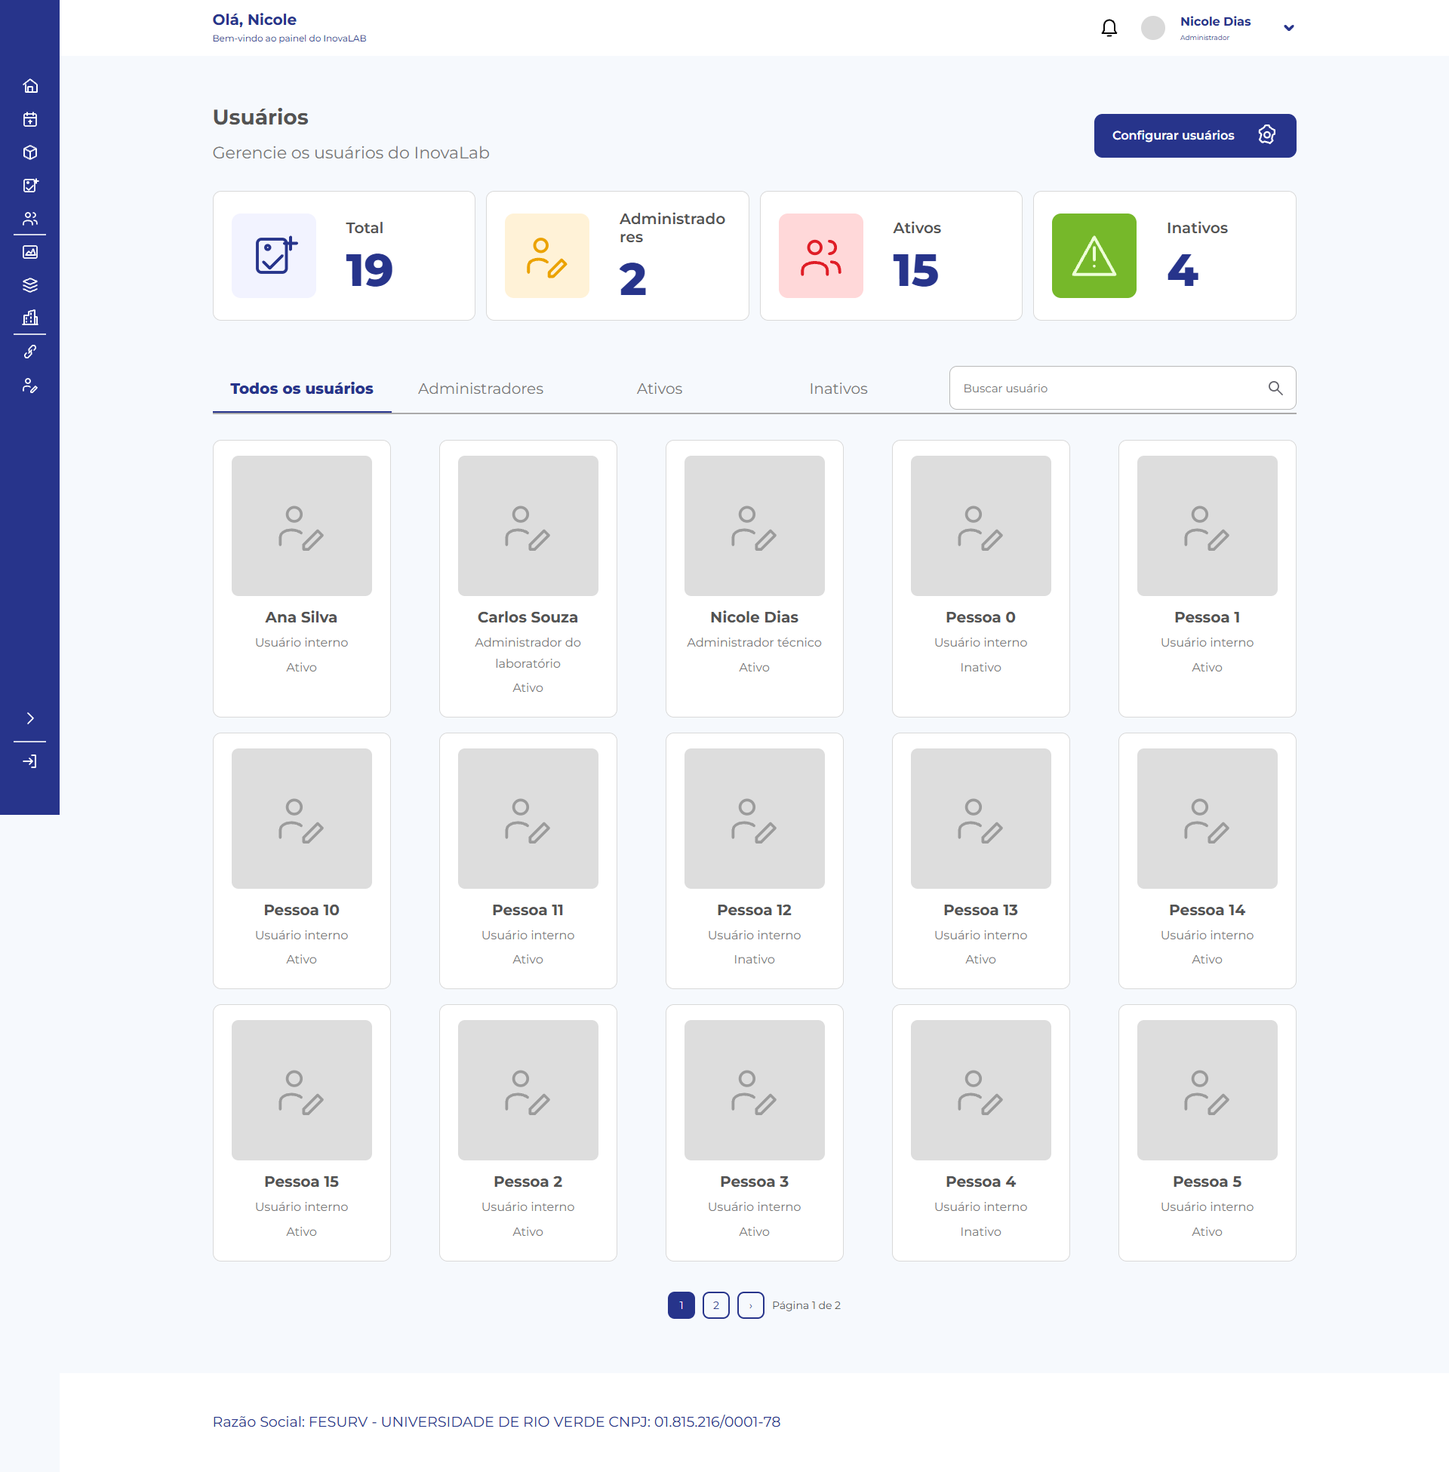
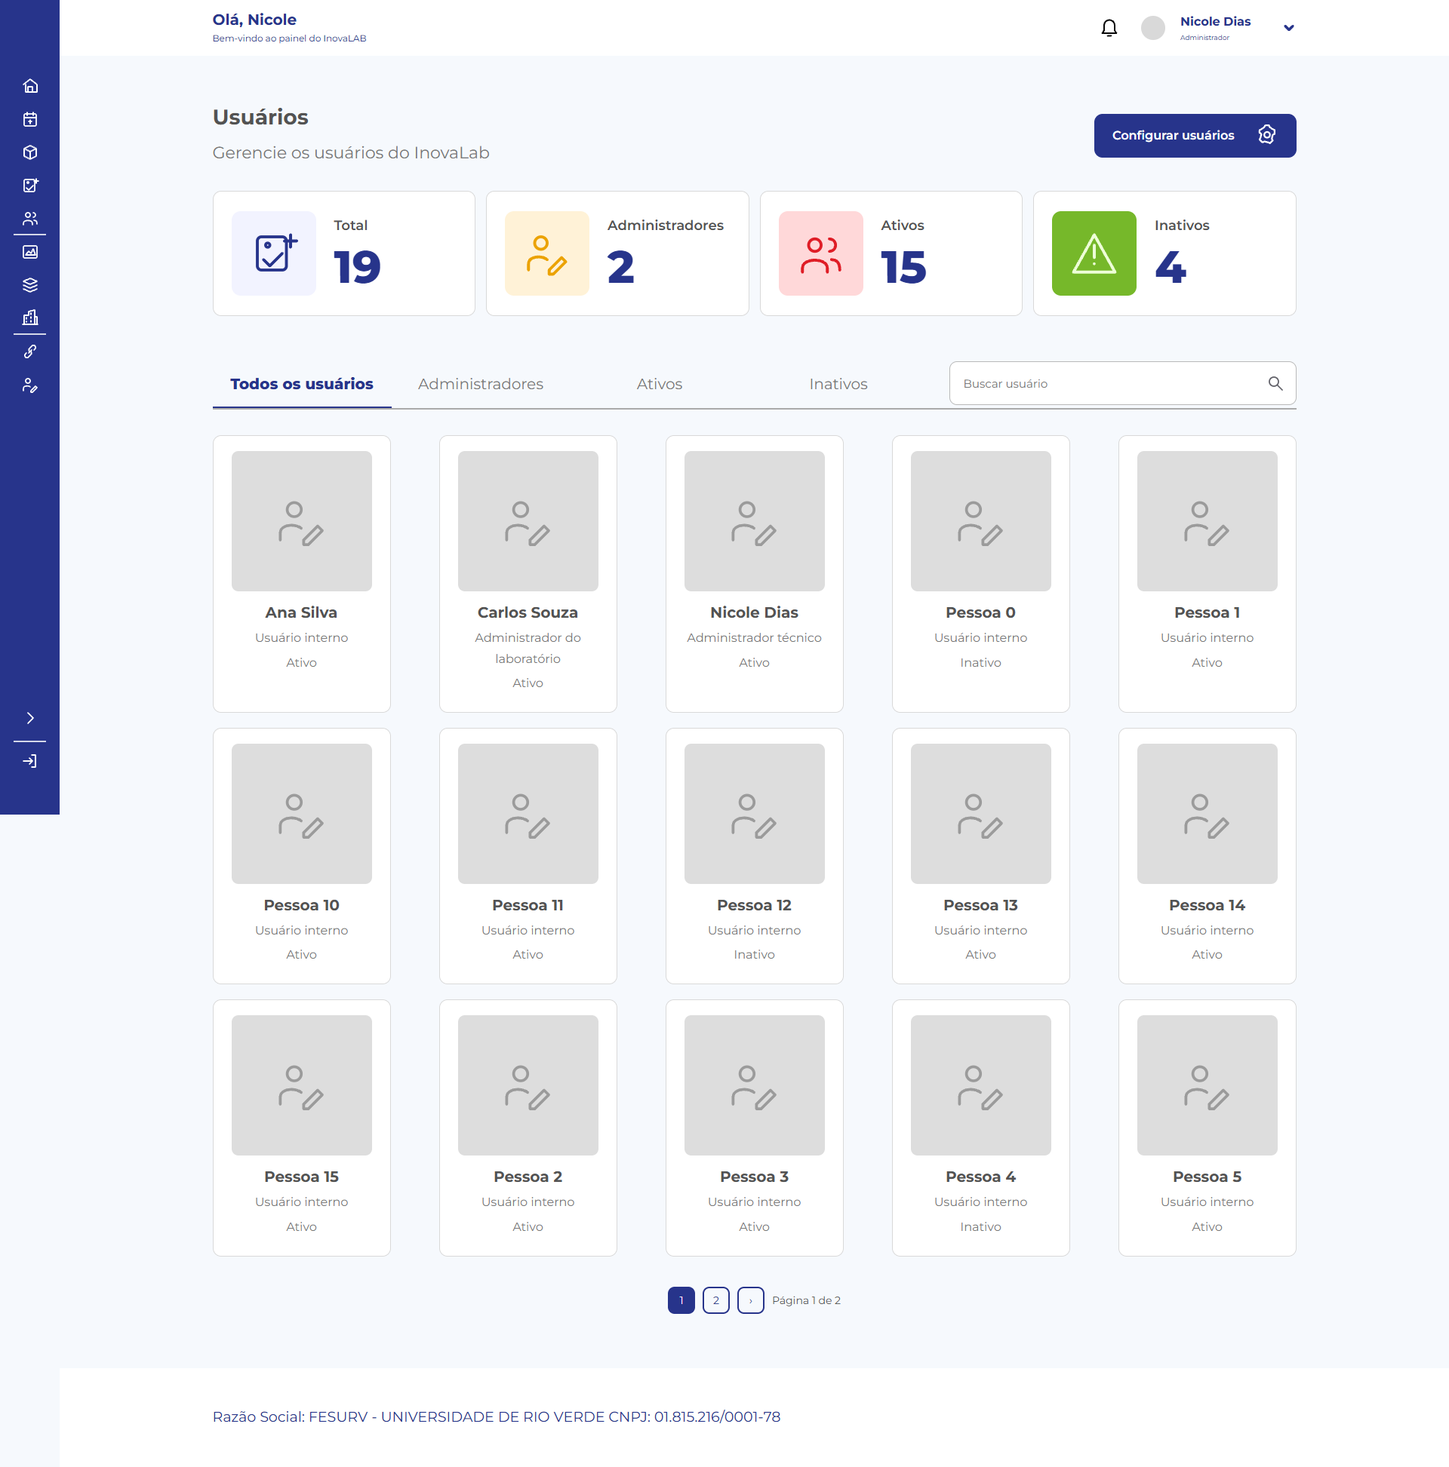
docs (frontend): registra validação, capturas e roteiro de depuração das páginas.

diff --git a/README.md b/README.md
@@ -22,6 +22,7 @@ Os sete módulos planejados estão implementados localmente: **Identidade e aces
 | [Módulo 6 — Materiais](docs/modules/06-materiais.md) | Cadastro, quantidade decimal, versão, API e depuração |
 | [Módulo 7 — Conteúdo](docs/modules/07-conteudo.md) | Banners WebP, publicação, imagem protegida, API e depuração |
 | [Frontend — Base e Dashboard](docs/frontend/01-base-e-dashboard.md) | Primeira entrega visual pelas referências, logos pendentes e roteiro de depuração |
+| [Frontend — Páginas e Usuários](docs/frontend/02-paginas-e-usuarios.md) | Telas dos módulos, login raiz/index, contas protegidas, capturas e roteiro de depuração |
 
 Leia as classificações **C** (confirmado pela fonte), **D** (derivado) e **P** (proposta) no arquivo 01. Propostas não são decisões aprovadas. As seis telas e as três páginas de `Referencias/InovaLab - Modelagem.pdf` foram examinadas. A pasta permanece ignorada pelo Git e pode faltar em outro clone.
 
@@ -52,7 +53,7 @@ Execução em PowerShell (crie `venv` com `python -m venv venv` se necessário):
 & .\venv\Scripts\python.exe manage.py runserver
 ```
 
-Abra [o login local](http://127.0.0.1:8000/entrar/), entre com o superusuário e use **Administrar contas** para criar os usuários internos. Não há credenciais padrão. O grupo `Administradores` identifica o papel de negócio e não concede gestão técnica de contas.
+Abra [o login local](http://127.0.0.1:8000/), entre com o superusuário e use **Administrar contas** no perfil para abrir `/usuarios/`. **Configurar usuários** abre a manutenção técnica no Django Admin. Não há credenciais padrão. O grupo `Administradores` identifica o papel de negócio e não concede gestão técnica de contas.
 
 Verificação automatizada:
 
@@ -63,9 +64,9 @@ Verificação automatizada:
 & .\venv\Scripts\python.exe -m pip check
 ```
 
-282 testes passaram (12 do Dashboard e os 270 dos módulos anteriores); checks, migrações e dependências sem pendências. Os fluxos básicos foram verificados no Chrome, incluindo layout a 360 px e teclado. Consulte os guias dos módulos para contratos, limitações e roteiros, inclusive os ajustes menores conhecidos de banners e horário de verão histórico da agenda. `.env` não é carregado automaticamente. Esta entrega é local; hospedagem e produção permanecem por definir.
+309 testes passaram (27 acrescentados nesta entrega do frontend, além dos 282 anteriores); checks, migrações e dependências sem pendências. Chrome: 45 rotas renderizadas, 155 combinações de layout/papel/menu, cadastro de material, execução/envio de tarefa, restrições de acesso e teclado. A revisão final teve duas correções, verificadas por testes de regressão: retorno circular ao login e intervalo de reservas de vários dias. Consulte os guias dos módulos para contratos, limitações e roteiros, inclusive os ajustes menores conhecidos de banners e horário de verão histórico da agenda. `.env` não é carregado automaticamente. Esta entrega é local; hospedagem e produção permanecem por definir.
 
-Use **Dashboard** na página da conta ou abra `/painel/`. A primeira entrega visual inclui a base e o painel; as demais telas conservam o visual anterior. Logos vazias conforme solicitado; inclusão futura registrada no [guia do frontend](docs/frontend/01-base-e-dashboard.md).
+O login fica em `/` e redireciona por padrão para `/index/`. `/painel/` e `/entrar/` permanecem como aliases; o perfil fica em `/perfil/`. **Administrar contas** abre a página **Usuários**, protegida para superusuários ativos. Todas as telas dos módulos usam a apresentação baseada nos PNGs locais; o Figma recusou acesso ao arquivo na conta conectada e o responsável autorizou esse fallback. Logos vazias conforme solicitado. [Guia, capturas, limitações e depuração do frontend](docs/frontend/02-paginas-e-usuarios.md).
 
 Após entrar, use **Catálogo** ou abra `/catalogo/servicos/`. A migração cria os onze serviços do PDF; `manage.py carregar_servicos_iniciais` repete a carga preservando alterações. APIs disponíveis: `/api/v1/servicos/`, `/api/v1/equipamentos/`, `/api/v1/espacos/`, com detalhes por ID. Indisponibilização preserva registros; exclusão física não é oferecida.
 
@@ -83,7 +84,7 @@ Administradores usam **Banners** ou `/banners/`. API interna por sessão/CSRF: `
 
 Revisar requisitos e decisões de cada etapa, validar seu desenho, preparar o plano, implementar o fluxo web/API e verificar cenários relevantes. A coleção de skills [Superpowers](https://github.com/obra/superpowers) foi instalada neste ambiente do Codex; não é dependência da aplicação e não acompanha um clone do projeto.
 
-Por decisão do responsável, entregar um módulo por vez e aguardar sua depuração antes do próximo. Identidade e catálogo seguem suas especificações e planos autorizados. Tarefas, agenda, integrações, materiais e conteúdo seguem execução direta com planos simples ([tarefas](docs/superpowers/plans/2026-10-01-tarefas.md), [agenda](docs/superpowers/plans/2026-10-02-agenda.md), [integrações](docs/superpowers/plans/2026-10-02-integracoes.md), [materiais](docs/superpowers/plans/2026-10-02-materiais.md), [conteúdo](docs/superpowers/plans/2026-10-04-conteudo.md)), mantendo testes e revisão independente. O frontend inicia por [base e Dashboard](docs/superpowers/plans/2026-10-05-frontend-painel.md). Escolhas para lacunas dos requisitos estão identificadas nos guias. Aguardar depuração desta entrega visual antes de migrar as demais telas.
+Por decisão do responsável, entregar um módulo por vez e aguardar sua depuração antes do próximo. Identidade e catálogo seguem suas especificações e planos autorizados. Tarefas, agenda, integrações, materiais e conteúdo seguem execução direta com planos simples ([tarefas](docs/superpowers/plans/2026-10-01-tarefas.md), [agenda](docs/superpowers/plans/2026-10-02-agenda.md), [integrações](docs/superpowers/plans/2026-10-02-integracoes.md), [materiais](docs/superpowers/plans/2026-10-02-materiais.md), [conteúdo](docs/superpowers/plans/2026-10-04-conteudo.md)), mantendo testes e revisão independente. Após [base e Dashboard](docs/superpowers/plans/2026-10-05-frontend-painel.md), a solicitação de todas as páginas reúne as telas restantes no [plano do frontend completo](docs/superpowers/plans/2026-10-05-frontend-completo.md). Escolhas para lacunas dos requisitos estão identificadas nos guias. Aguardar depuração desta entrega visual antes de iniciar outra etapa.
 
 Para as próximas entregas visuais, seguir as referências com as funcionalidades atuais, mantendo as logos em branco até o responsável fornecê-las. Executar os testes automatizados do Django e os testes básicos no navegador; o responsável realizará os testes mais profundos posteriormente. Essas orientações estão em [AGENTS.md](AGENTS.md).
 

diff --git a/docs/superpowers/plans/2026-10-05-frontend-completo.md b/docs/superpowers/plans/2026-10-05-frontend-completo.md
@@ -12,33 +12,37 @@ Dados/políticas reais; logs e imagens das referências não entram no produto. 
 
 ## 1. Rotas, navegação e base
 
-- [ ] RED: login raiz200, index privado, entrada padrão/index/alias e `next` seguro, perfil, menus compartilhados, público sem dados privados.
-- [ ] `accounts/urls.py`, settings/core urls, `core/navigation.py` context processor; menu extraído do Dashboard, `core/base` com blocks de layout/extra_head/mensagens, catalogo/base interno e core/public-base; CSS compartilhado em módulos.css; atualizar testes antigos de rotas.
-- [ ] GREEN suite/check/drift; commit português.
+- [x] RED: login raiz200, index privado, entrada padrão/index/alias e `next` seguro, perfil, menus compartilhados, público sem dados privados.
+- [x] `accounts/urls.py`, settings/core urls, `core/navigation.py` context processor; menu extraído do Dashboard, `core/base` com blocks de layout/extra_head/mensagens, catalogo/base interno e core/public-base; CSS compartilhado em módulos.css; atualizar testes antigos de rotas.
+- [x] GREEN suite/check/drift; commit português.
 
 ## 2. Usuários
 
-- [ ] RED autorização vigente (super ativo), staff/perms comuns negados, contagens/filtros/paginação/escape, Administrar contas/menu apontam `/usuarios/`.
-- [ ] `accounts/user_views.py`, templates de usuários com cartões/contadores/abas/busca15 por página; configurações técnicas somente via acesso autorizado existente. Incorporar resposta sobre papel administrativo antes de concluir.
-- [ ] GREEN suite/check; commit português.
+- [x] RED autorização vigente (super ativo), staff/perms comuns negados, contagens/filtros/paginação/escape, Administrar contas/menu apontam `/usuarios/`.
+- [x] `accounts/user_views.py`, templates de usuários com cartões/contadores/abas/busca15 por página; configurações técnicas somente via acesso autorizado existente. Pergunta opcional sem resposta: preservar a autoridade técnica vigente.
+- [x] GREEN suite/check; commit português.
 
 ## 3. Tarefas e agenda
 
-- [ ] RED filtros/contagens sem tarefas alheias, querystring preservado; calendário domingo primeiro, busca/categoria, reserva na virada/meia-noite/cancelados/paginação.
-- [ ] Views/seletores aplicam filtros reais; contadores e tabs. Templates Kanban/calendário, formulário/detalhe com barra e histórico, erros e confirmações na base; preservar transições/versão/CSRF.
-- [ ] GREEN suite e Chrome básico; commit português.
+- [x] RED filtros/contagens sem tarefas alheias, querystring preservado; calendário domingo primeiro, busca/categoria, reserva na virada/meia-noite/cancelados/paginação.
+- [x] Views/seletores aplicam filtros reais; contadores e tabs. Templates Kanban/calendário, formulário/detalhe com barra e histórico, erros e confirmações na base; preservar transições/versão/CSRF.
+- [x] GREEN suite e Chrome básico; commit português.
 
 ## 4. Materiais, banners e demais páginas
 
-- [ ] RED status/categoria/busca/tab/counts/escape/paginação/proteção de banners; smoke render das telas restantes.
-- [ ] Tabelas/contadores/thumbnails/abas com dados atuais. Catálogo/integrações/perfil/público/formulários/confirmações/históricos e 403/404/500 coerentes, sem controles cenográficos.
-- [ ] GREEN suite/check/drift/pip; Chrome completo, capturas e comparação; commit português.
+- [x] RED status/categoria/busca/tab/counts/escape/paginação/proteção de banners; smoke render das telas restantes.
+- [x] Tabelas/contadores/thumbnails/abas com dados atuais. Catálogo/integrações/perfil/público/formulários/confirmações/históricos e 403/404/500 coerentes, sem controles cenográficos.
+- [x] GREEN suite/check/drift/pip; Chrome completo, capturas e comparação; commit português.
 
 ## 5. Revisão e entrega
 
-- [ ] Uma revisão independente read-only. Regraduar; Important/Critical em uma passada RED/GREEN; menores registrados.
-- [ ] Guia com cenários/testes/limitações, README/AGENTS/spec/plan e decisões atualizados; commits. Encerrar navegador/servidor; remover somente temporários desta tarefa se a ferramenta permitir, sem contornar rejeições.
-- [ ] Status final limpo; entrega local, aguardar depuração.
+- [x] Uma revisão independente read-only. Regraduar; Important/Critical em uma passada RED/GREEN; menores registrados.
+- [x] Guia com cenários/testes/limitações, README/AGENTS/spec/plan e decisões atualizados; commits. Encerrar navegador/servidor; remover somente temporários desta tarefa se a ferramenta permitir, sem contornar rejeições.
+- [x] Status final limpo; entrega local, aguardar depuração.
+
+## Resultado da execução
+
+309 testes passaram; 45 rotas no Chrome e 155 cenários de layout/papel/menu. Uma revisão independente: retorno circular no login e horário de continuação da reserva corrigidos RED→GREEN, suíte309/309 e confirmação no navegador. Menor adiado: quebra de rótulos longos em contadores. Decisões e custos preservados no [guia da entrega](../../frontend/02-paginas-e-usuarios.md#decisões-da-execução). Figma recusou acesso; PNGs autorizados, Group17 não verificável. Commits locais; aguardar depuração. Nenhuma segunda revisão.
 
 ## Foco da revisão
 

diff --git a/docs/frontend/02-paginas-e-usuarios.md b/docs/frontend/02-paginas-e-usuarios.md
@@ -40,7 +40,25 @@ Comandos da entrega em PowerShell:
 git diff --check
 ```
 
-Os resultados finais, capturas e revisão serão registrados ao encerrar a verificação. O navegador utiliza banco SQLite e mídia temporários próprios; nenhum registro do banco de trabalho é necessário para essas verificações.
+309 testes passaram, incluindo 27 novos nesta entrega: rotas/login, autorização e busca de usuários, filtros/contadores/paginação/escape, calendário e páginas de erro. `check`, verificação de migrações, `pip check` e `git diff --check` passaram. Sem novos modelos, migrações, dependências ou contratos de API.
+
+Chrome: 45 páginas administrativas/públicas renderizaram com sucesso; 122 combinações de página/largura/menu como administrador e 33 como usuário comum passaram, com nomes longos e sem transbordamento externo ou imagens quebradas. Larguras: 1920/1366/820/768/360 px; tabelas e calendário permitem rolagem dentro de sua região acessível. Também foram verificados: entrada padrão no index, bloqueios administrativos, cadastro de material com `1,125` armazenado como `1.125`, início/envio de tarefa e histórico, logout, gaveta móvel/Escape/retorno de foco. Não houve erros JavaScript da aplicação. Os dados nas capturas são fixtures de banco e mídia temporários próprios; seus registros reais não foram alterados.
+
+Uma revisão final independente identificou dois problemas importantes, corrigidos numa única passada com casos RED→GREEN e suíte309/309: retorno `next` destinado à própria entrada agora segue ao index sem erro/loop, preservando destinos internos válidos e a validação do Django para destinos externos; reservas de vários dias exibem o intervalo completo em cada dia ocupado, preservando o término à meia-noite. Ambos também foram conferidos no Chrome após a correção. Não houve segunda revisão.
+
+Ajuste menor adiado: rótulos longos dos contadores podem quebrar dentro da palavra quando o cartão tem pouca largura. O ajuste das proporções dos cartões fica para a próxima depuração visual.
+
+Capturas: [Usuários](screenshots/usuarios-1920.png), [Materiais](screenshots/materiais-1920.png), [Banners](screenshots/banners-1920.png), [Agenda](screenshots/agenda-1920.png), [Detalhe da tarefa](screenshots/tarefa-detalhe-1920.png) e [Formulário em 360 px](screenshots/material-form-360.png).
+
+## Decisões da execução
+
+- Reunir as telas restantes nesta entrega visual atende à solicitação de todas as páginas, sem abrir novos módulos de domínio. Custo: um conjunto maior de telas para depurar de uma vez.
+- Usar o checkout local da IDE e registro manual em PowerShell preservou a execução existente, sem alterar framework ou dependências. Custo: registros manuais e fonte original ainda não confirmada; Montserrat e logos vazias continuam como decidido.
+- A verificação exata do Figma e da exclusão por `Group 17` não foi declarada: o responsável autorizou os PNGs após a recusa de acesso. Custo: diferenças visuais e composição das telas excluídas continuam sem conferência no arquivo original.
+- A manutenção técnica de contas fica no Django Admin, explicitamente fora das telas visuais do produto. Custo: a edição técnica mantém uma apresentação diferente.
+- README, rotas e resultados ainda estavam pendentes durante a revisão; foram concluídos nesta tarefa documental. Custo: alterações posteriores exigem manter esses guias sincronizados.
+
+Entrega local na branch `feat/frontend-completo`, aguardando depuração. A orientação de entregar por etapas permanece para trabalhos futuros.
 
 Para aprofundar depois da entrega:
 

diff --git a/docs/modules/01-identidade-e-acesso.md b/docs/modules/01-identidade-e-acesso.md
@@ -16,7 +16,7 @@ python -m venv venv
 
 O cadastro inicial solicita usuário, e-mail opcional e senha. Não há conta ou senha padrão. As migrações criam o grupo `Administradores` sem duplicá-lo; o banco SQLite local não é versionado.
 
-Abra [a página de login](http://127.0.0.1:8000/entrar/) e entre com a conta criada. O botão **Administrar contas** abre o Django Admin. Em **Contas e acesso → Usuários → Adicionar**, cadastre contas com autenticação por senha habilitada. Após salvar, edite nome, e-mail, ativação e grupos conforme necessário.
+Abra [a página de login](http://127.0.0.1:8000/) e entre com a conta criada. O login padrão abre `/index/`; o perfil fica em `/perfil/`. **Administrar contas** abre a nova tela `/usuarios/`, exclusiva de superusuários ativos. Use **Configurar usuários** para a manutenção técnica no Django Admin. Em **Contas e acesso → Usuários → Adicionar**, cadastre contas com autenticação por senha habilitada. Após salvar, edite nome, e-mail, ativação e grupos conforme necessário.
 
 ## Papéis
 
@@ -34,8 +34,10 @@ O grupo classifica o papel do laboratório. As permissões operacionais de catá
 
 | Rota | Comportamento |
 | --- | --- |
-| `/entrar/` | GET exibe formulário; POST com CSRF autentica conta ativa |
-| `/` | Página privada com nome, usuário, papel e botão Sair |
+| `/` e `/entrar/` | GET exibe login; POST com CSRF autentica conta ativa e segue por padrão ao index |
+| `/index/` e `/painel/` | Dashboard privado; `/painel/` é alias |
+| `/perfil/` | Página privada com nome, usuário, papel e botão Sair |
+| `/usuarios/` | Cartões, busca e filtros; somente superusuários ativos |
 | `/sair/` | POST com CSRF encerra sessão; GET retorna 405 |
 | `/admin/` | Administração nativa do Django; gestão de identidade exclusiva do superusuário |
 | `/api/v1/me/` | GET autenticado por sessão retorna a identidade atual em JSON |
@@ -75,7 +77,7 @@ $env:DJANGO_SECRET_KEY = 'substitua-por-uma-chave-privada'
 
 ## Roteiro para depuração
 
-1. Sem login, abra `/`: deve ir para `/entrar/?next=/`.
+1. Sem login, abra `/`: deve exibir o login. `/index/` e `/perfil/` devem redirecionar ao login com `next` local.
 2. Entre como superusuário, abra o admin e crie uma conta comum com senha. Edite seu nome e e-mail.
 3. Em outro navegador ou janela privada, tente uma senha errada: deve aparecer mensagem genérica. Entre com a senha correta e confira nome, usuário e papel **Usuário interno**, sem link para gerenciar contas.
 4. Abra `/api/v1/me/`: confira as cinco chaves e somente a identidade dessa conta. Repita com `?id=<id-de-outra-conta>`.

diff --git a/AGENTS.md b/AGENTS.md
@@ -5,3 +5,4 @@
 - Preservar login e página de identidade. A solicitação de 05/10/2026 inicia melhorias visuais pelas imagens de referência, em entregas fracionadas. Reproduzir o frontend com as funcionalidades atuais; novos recursos terão etapas próprias. Deixar os espaços das logos vazios e registrar sua inclusão futura pelo responsável.
 - Executar os testes automatizados do Django e verificações básicas no navegador em cada entrega. O responsável executará testes mais profundos posteriormente. Informar os comandos, resultados e cenários restantes.
 - A orientação mais recente sobre testes substitui a decisão anterior de deixar toda a execução para o responsável; seguir o fluxo normal de desenvolvimento e verificação das skills.
+- A solicitação de frontend de todas as páginas reúne as telas restantes nesta entrega visual, com plano simples próprio; aguardar a depuração antes de outra etapa. Login em `/`, index em `/index/`, perfil em `/perfil/` e página Usuários em `/usuarios/`. Preservar a gestão técnica de contas exclusiva de superusuários ativos.

diff --git a/docs/frontend/01-base-e-dashboard.md b/docs/frontend/01-base-e-dashboard.md
@@ -1,5 +1,7 @@
 # Frontend — primeira entrega: base e Dashboard
 
+Este guia registra a primeira entrega. As rotas e telas atuais estão no [guia de páginas e Usuários](02-paginas-e-usuarios.md): login em `/`, entrada padrão em `/index/`, perfil em `/perfil/` e demais módulos com a base compartilhada.
+
 Entrega de 05/10/2026. Abra `/painel/` após entrar, ou use **Dashboard** na página inicial da conta. O login e a página de identidade foram preservados. As outras telas continuam com seu visual anterior; sua migração será feita em entregas separadas, após a depuração desta parte.
 
 ## Referências e escopo
